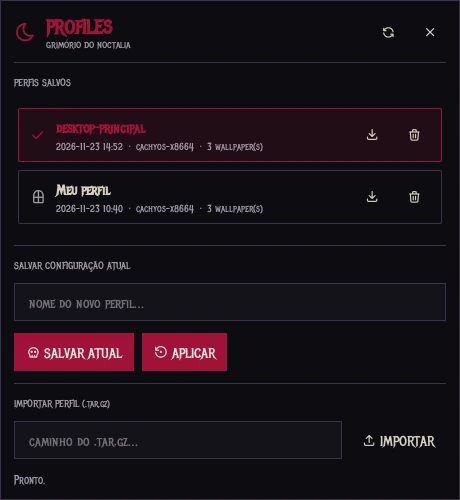
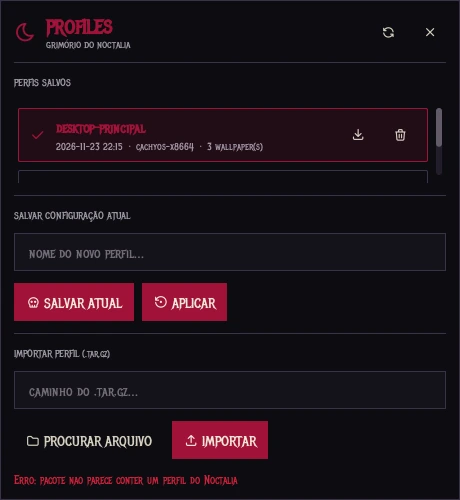
fix: accept tarballs with ./ prefix; refresh panel screenshot

diff --git a/profiles/README.md b/profiles/README.md
@@ -70,7 +70,8 @@ noctalia-profile import ~/Downloads/meu-tema.tar.gz --no-apply
 
 O pacote contém `manifest.json`, `config/`, `settings.toml`, `plugins-data/` e
 `wallpapers/`. Caminhos de extração são validados e o arquivo é gerado de forma
-atômica — nenhum caminho absoluto do seu usuário é embutido.
+atômica — nenhum caminho absoluto do seu usuário é embutido. Packages feitos
+com `tar czf perfil.tar.gz -C pasta .` também são aceitos (o `./` é normalizado).
 
 ### IPC do service
 
